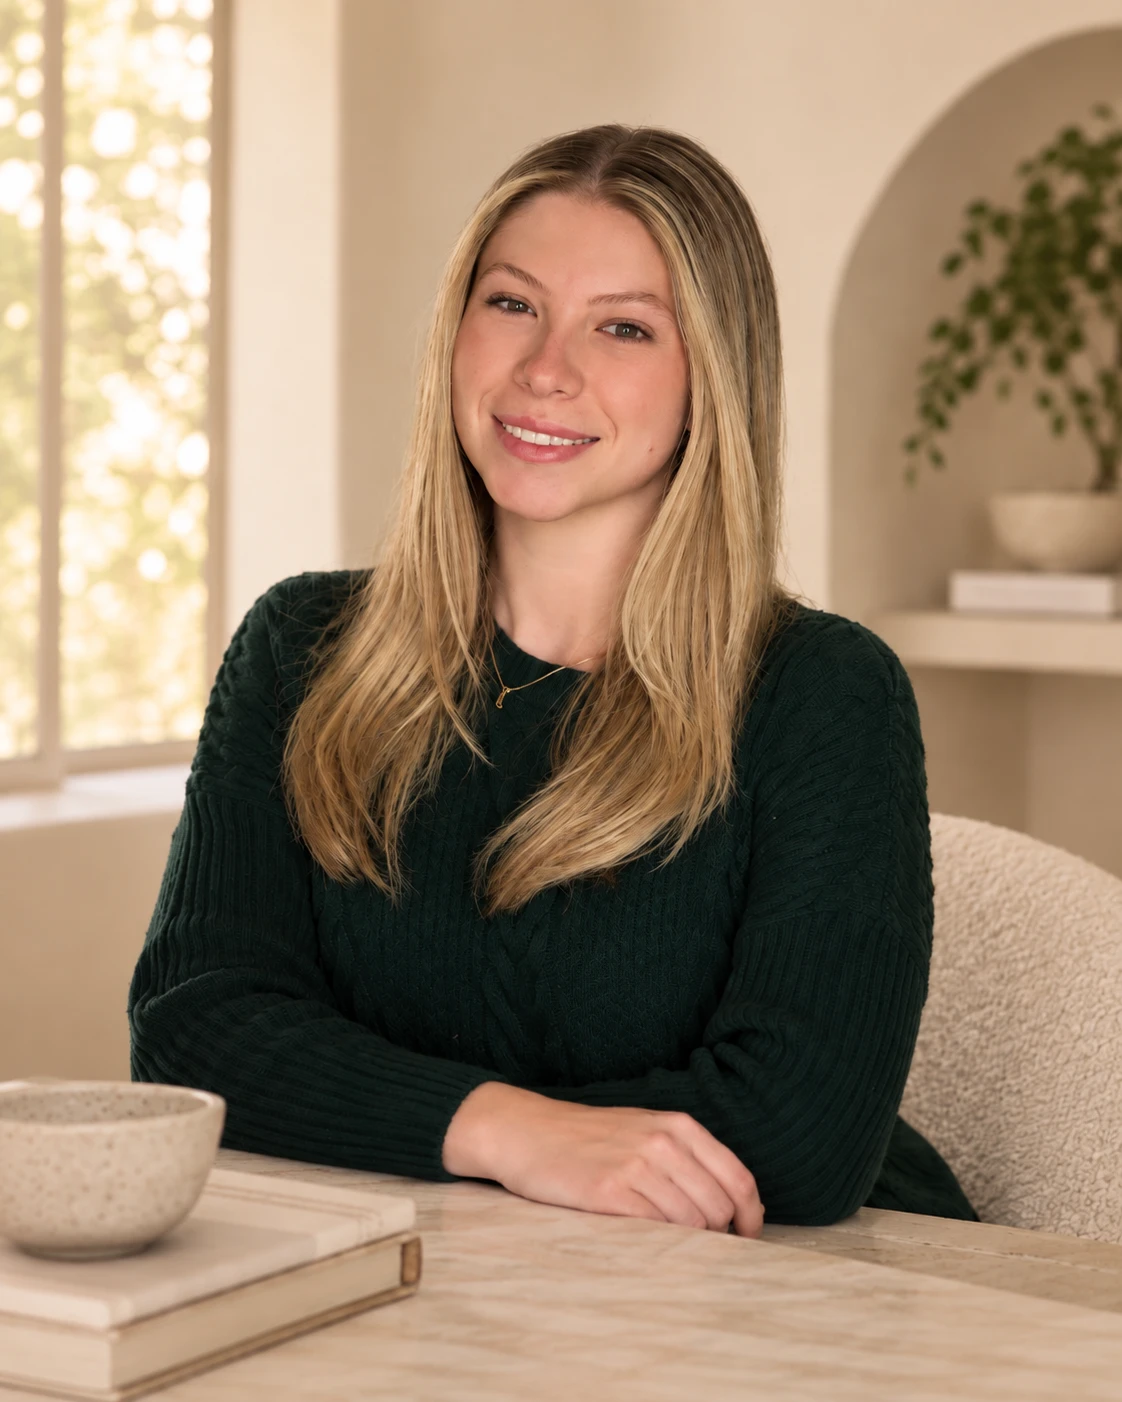
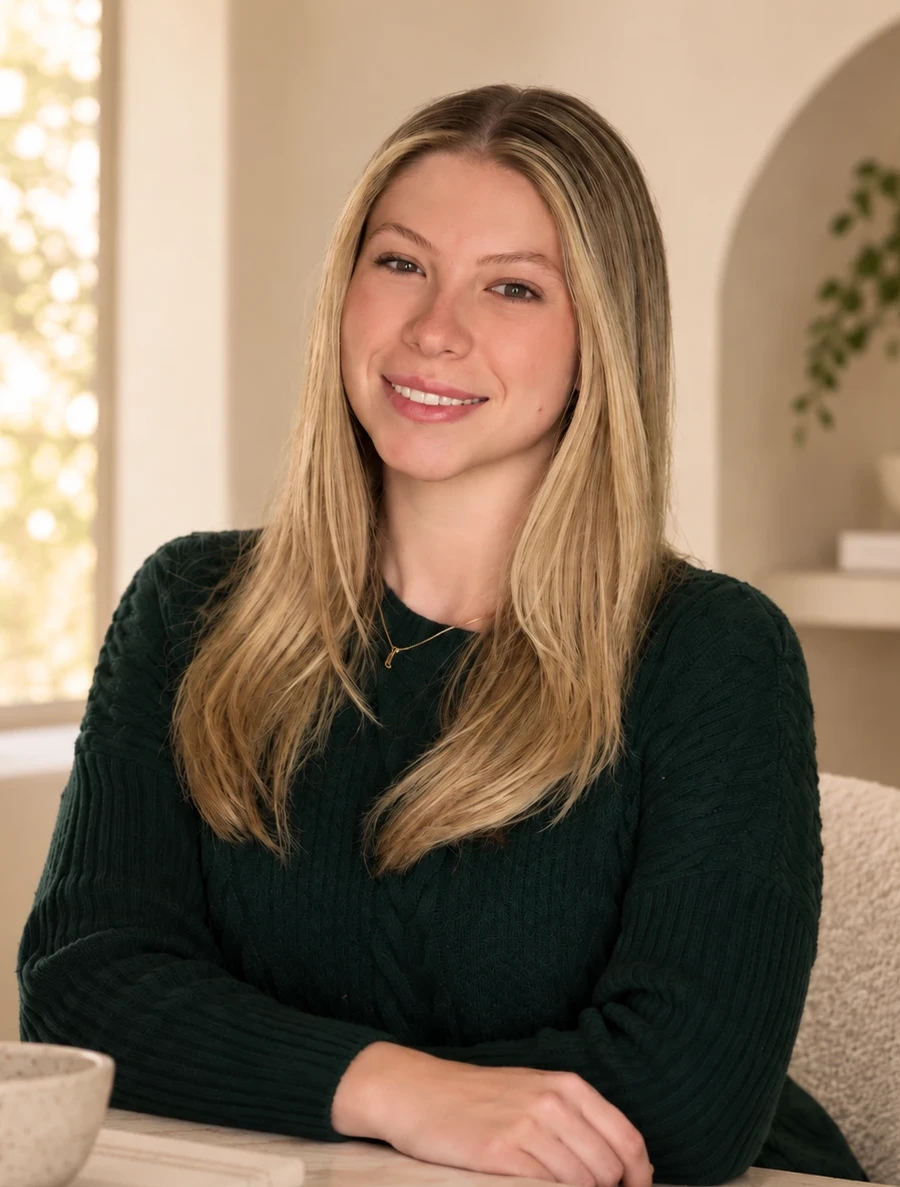
Grace: slightly closer crop; drop the obsolete comingSoon field
Bring Grace's portrait a touch closer — trim some outer environment so she reads
a bit more present, still head + upper torso with headroom and the warm House
context, at the same system as the rest of the team. Also drop the now-unused
`comingSoon` field from the HOUSE_TEAM type (it only supported the removed Founder
Advisor seat). No visible team copy or layout change; labels, scales, values,
navy statement, spacing, palette, threshold, Private Advisory, In Residence all
unchanged.

Claude-Session: https://claude.ai/code/session_01FVpjWAyjdDE8YjAWpcG1Ng

diff --git a/src/data.ts b/src/data.ts
@@ -852,10 +852,8 @@ export const STUDIO_NIGHTS = [
 // The core House team as shown on the commercial path — name + role only, so a
 // founder sees the strength of Believe at a glance (an institution, not a solo
 // practice). Residents (e.g. Mona) are shown separately, never here. Edit this
-// one array to update the roster; `comingSoon` softens a not-yet-solidified seat.
-// A seat with no `name` is a role being filled — shown by title only, never a
-// name, until the person has officially started.
-export const HOUSE_TEAM: { name?: string; role: string; comingSoon?: boolean }[] = [
+// one array to update the roster.
+export const HOUSE_TEAM: { name: string; role: string }[] = [
   { name: 'Beth Wilson-Parentice', role: 'Founder' },
   { name: 'Tiffany Nilles', role: 'Retail Intelligence Advisor' },
   { name: 'Joy Mooiweer', role: 'House Operations' },
@@ -875,7 +873,7 @@ export const CORE_TEAM: TeamMember[] = [
   { name: 'Tiffany Nilles', role: 'Retail Intelligence Advisor', roleShort: 'Retail Intelligence', values: 'Brings the evidence into the room.', photo: '/photos/portrait-tiffany.webp', pos: 'center 28%' },
   { name: 'Joy Mooiweer', role: 'House Operations', values: 'Makes the House work when no one is watching.', photo: '/photos/portrait-joy.webp', pos: 'center 28%' },
   { name: 'Jillian Waun', role: 'Creative & Editorial', values: 'Gives the House its visible language.', photo: '/photos/portrait-jillian.webp', pos: 'center 26%' },
-  { name: 'Grace Federico', role: 'Brand & Growth Associate', roleShort: 'Brand & Growth', values: 'Makes sure ideas become action and founders know what comes next.', photo: '/photos/portrait-grace.webp', pos: 'center 30%' },
+  { name: 'Grace Federico', role: 'Brand & Growth Associate', roleShort: 'Brand & Growth', values: 'Makes sure ideas become action and founders know what comes next.', photo: '/photos/portrait-grace.webp', pos: 'center 22%' },
 ]
 // Residents — rotating specialist expertise available to the House, shown quieter
 // and subordinate to the core team.
